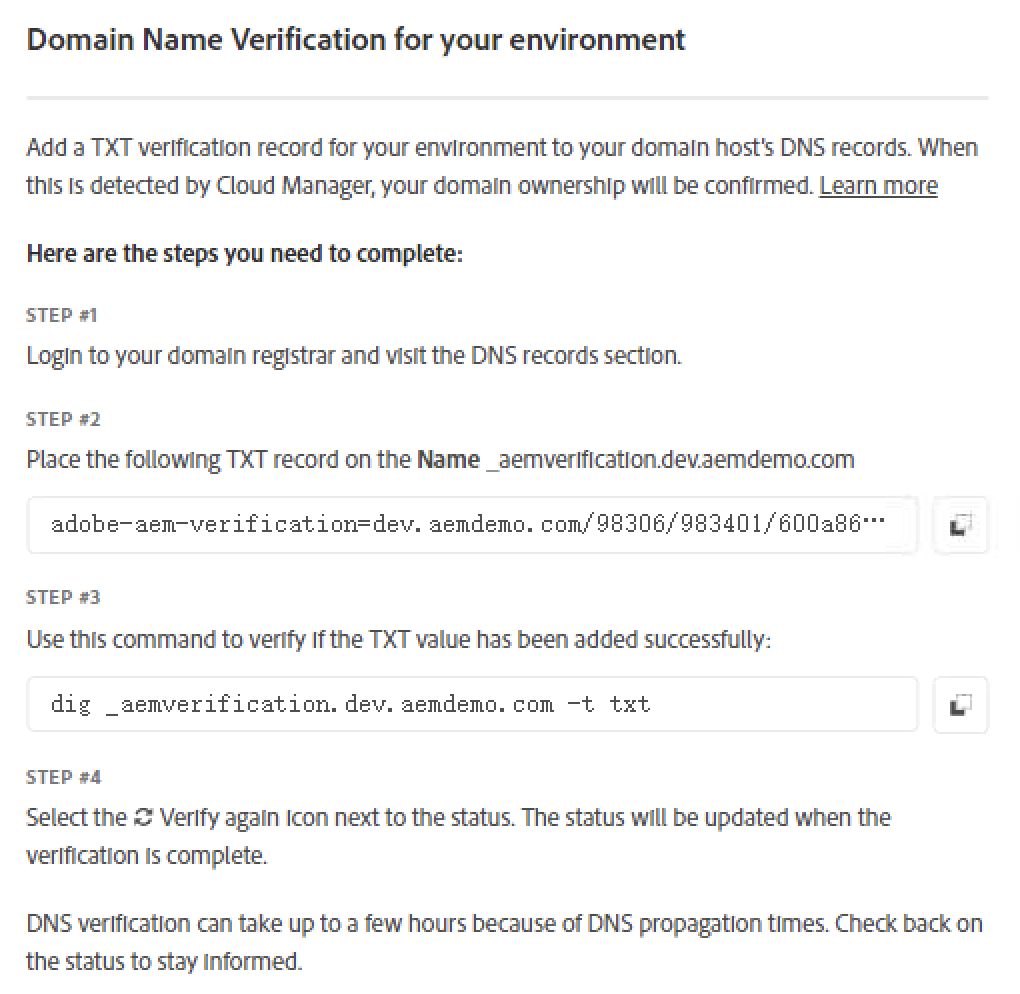
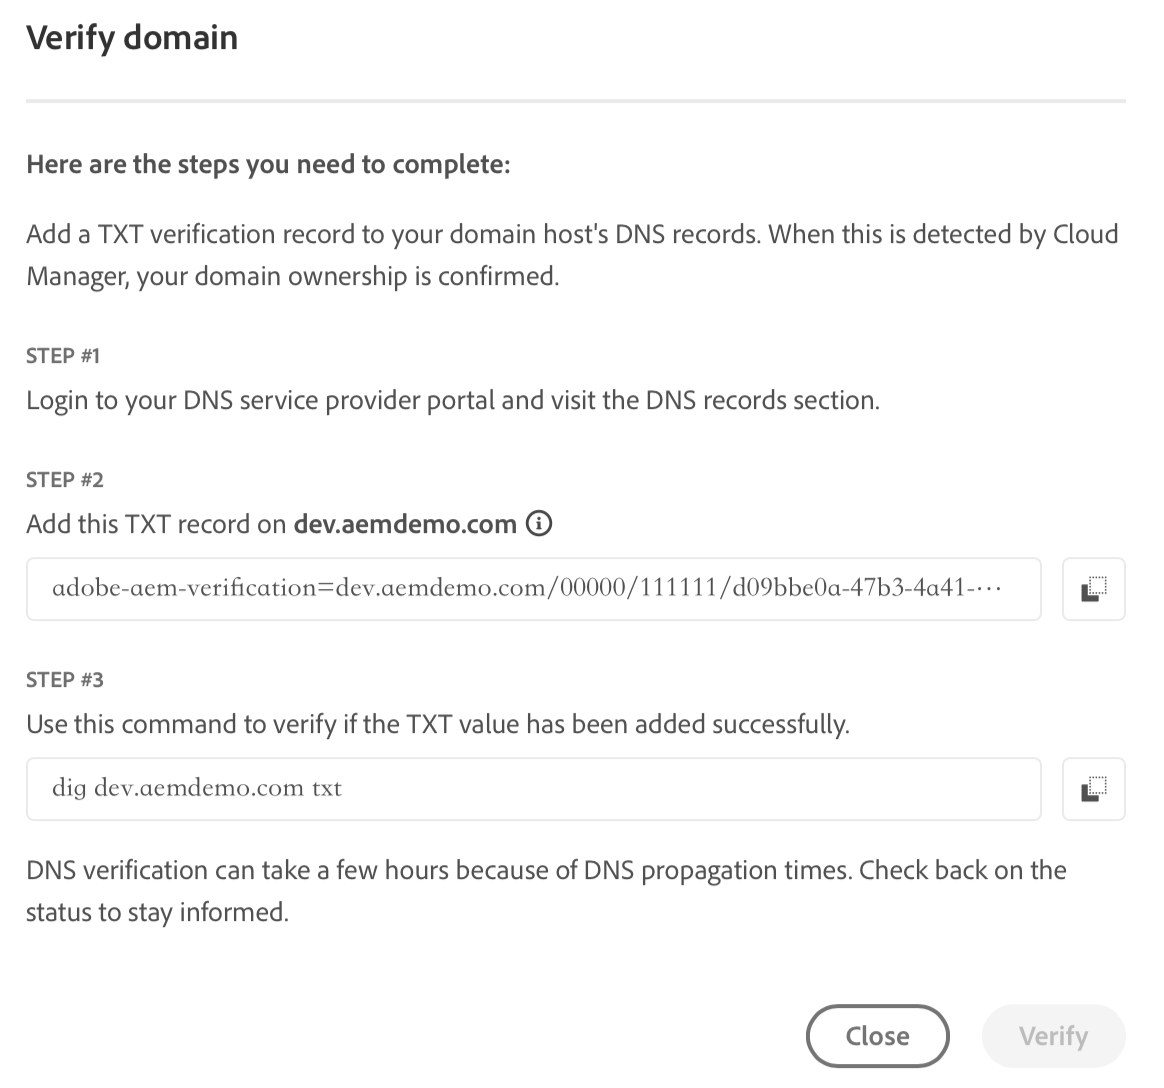
new custom domain setup with new setup

diff --git a/src/app/aem/sites/setting-up-custom-domain-aem-cloud/page.tsx b/src/app/aem/sites/setting-up-custom-domain-aem-cloud/page.tsx
@@ -6,10 +6,14 @@ import { IBreadCrumb } from "@/types/breadcrumb";
 import BreadCrumb from "@/components/breadcrumb/breadcrumb";
 import { SETTING_UP_CUSTOM_DOMAIN_AEM_CLOUD as ARTICLE } from "@/lib/data/article/aem/sites";
 
-import NEW_SSL_CERTIFICATE from './assets/new-ssl-certificate.png';
 import NEW_DOMAIN_NAME from './assets/new-domain-name.png';
+import DOMAIN_CERTIFICATION_SELECTION from './assets/domain-certification-selection.png';
 import DOMAIN_NAME_VERIFICATION from './assets/domain-name-verification.png';
-import DNS_RESOLUTION from './assets/dns-resolution.png';
+import DOMAIN_NAME_VERIFICATION_ADOBE from './assets/domain-name-verification-adobe.png';
+import NEW_SSL_CERTIFICATE from './assets/new-ssl-certificate.png';
+import NEW_SSL_CERTIFICATE_ADOBE from './assets/new-ssl-certificate-adobe.png';
+import CDN_CONFIGURATION from './assets/cdn-configuration.png';
+import CDN_CONFIGURATION_ADOBE from './assets/cdn-configuration-adobe.png';
 
 export const metadata: Metadata = {
   title: ARTICLE.title,
@@ -38,20 +42,131 @@ export default function DomainConfiguration() {
           modifiedDate={ARTICLE.modifiedDate}/>
         <section className="pt-6">
           It is good practice to have a Domain for your site that is memorable for customer and reflects your brand&apos;s identity.
-          Adding a custom domain name in AEMaaCS requires interaction between DNS service and Cloud Manager.
+          Adding a custom domain name in AEMaaCS requires interaction between DNS service and Cloud Manager. A user must be a member
+          of <strong>Business Owner</strong> or <strong>Deployment Manager</strong> role to complete this task.
         </section>
-        <Image src={NEW_SSL_CERTIFICATE} className="border mt-3" height="550"
-           alt="New SSL Certificate">
-        </Image>
-        <Image src={NEW_DOMAIN_NAME} className="border mt-3" height="500"
+        <section className="pt-3">
+          There are several steps required to install, configure, and verify custom domain names. Get started configuring a new domain name
+          in Cloud Manager.
+        </section>
+        <h2 className="text-xl mt-4">
+          <strong>Add Custom Domain</strong>
+        </h2>
+        <section>
+          From the left Navigation panel, Select <strong>Domain Settings</strong> then click <strong>Add Domain</strong>.
+          In the Add domain dialog box, enter the custom domain name you are using. Do not include http:// or https:// when entering in your domain.
+        </section>
+        <Image src={NEW_DOMAIN_NAME} className="border mt-3" height="200"
            alt="New Domain Name">
         </Image>
-        <Image src={DOMAIN_NAME_VERIFICATION} className="border mt-3" height="500"
+        <section className="py-3">
+          The next step is to verify the domain. In the Verify Domain dialog box, select <strong>What certificate type do you plan on using with this
+          domain?</strong> Adobe or Customer Managed Certificate.
+        </section>
+        <Image src={DOMAIN_CERTIFICATION_SELECTION} className="border mb-3" height="300"
            alt="Domain Name Verification">
         </Image>
-        <Image src={DNS_RESOLUTION} className="border mt-3" height="150"
-           alt="DNS Resolution">
-        </Image>
+        <section className="pb-3">
+          Based on your selection, add either a TXT record or CNAME to your DNS service.
+        </section>
+        <div className="md:flex">
+          <div className="md:w-1/2 w-full">
+            <figure>
+              <Image className="border py-3" src={DOMAIN_NAME_VERIFICATION_ADOBE}
+                 alt="Domain Name Verification for Adobe Managed Certificate">
+              </Image>
+              <figcaption className="text-center text-sm text-neutral-600">Adobe Managed Certificate</figcaption>
+            </figure>
+          </div>
+          <div className="md:w-1/2 w-full md:pt-0 pt-4 md:ml-4">
+            <figure>
+              <Image className=" border py-3" src={DOMAIN_NAME_VERIFICATION}
+                 alt="Domain Name Verification for Customer Managed Certificate">
+              </Image>
+              <figcaption className="text-center text-sm text-neutral-600">Customer Managed Certificate</figcaption>
+            </figure>
+          </div>
+        </div>
+        <h2 className="text-xl mt-4">
+          <strong>Add SSL Certificate</strong>
+        </h2>
+        <section className="pb-3">
+          From the left Navigation panel, Select <strong>SSL Certificates</strong> then click <strong>Add SSL certificate</strong>.
+          In the Add SSL certificate dialog box, based on your use case, do one of the following:
+        </section>
+        <div className="md:flex">
+          <div className="md:w-1/2 w-full">
+            <figure>
+              <Image className="border py-3" src={NEW_SSL_CERTIFICATE_ADOBE}
+                 alt="SSL Certificate for Adobe Managed Certificate">
+              </Image>
+            </figure>
+          </div>
+          <div className="md:w-1/2 w-full md:pt-0 pt-4 md:ml-4">
+            <figure>
+              <Image className=" border py-3" src={NEW_SSL_CERTIFICATE}
+                 alt="SSL Certificate for Customer Managed Certificate">
+              </Image>
+            </figure>
+          </div>
+        </div>
+        <section className="pt-3">
+          Once the certificate is successfully issued, green check mark will appear in the SSL Certificates table, indicating that the SSL certificate is now active and working.
+        </section>
+        <h2 className="text-xl mt-4">
+          <strong>Add CDN Configurations</strong>
+        </h2>
+        <section className="pb-3">
+          From the left Navigation panel, Select <strong>CDN Configurations</strong> then click <strong>Add</strong>.
+          In the Configuration CDN dialog box, based on your use case, do one of the following:
+        </section>
+        <div className="md:flex">
+          <div className="md:w-1/2 w-full">
+            <figure>
+              <Image className="border py-3" src={CDN_CONFIGURATION_ADOBE}
+                 alt="CDN Configuration for Adobe Managed Certificate">
+              </Image>
+            </figure>
+          </div>
+          <div className="md:w-1/2 w-full md:pt-0 pt-4 md:ml-4">
+            <figure>
+              <Image className=" border py-3" src={CDN_CONFIGURATION}
+                 alt="CDN Configuration for Customer Managed Certificate">
+              </Image>
+            </figure>
+          </div>
+        </div>
+        <section className="pt-3">
+          The final step is to point your domain to the target Adobe Cloud CDN in your DNS service. To verify,
+          use the command <code className="code-inline background">nslookup dev.aemdemo.com</code>.
+        </section>
+        <div className="relative overflow-x-auto mt-2">
+          <table className="w-full text-sm text-left">
+            <thead className="text-xs uppercase border">
+              <tr>
+                <th scope="col" className="min-w-36 px-4 py-2 border-r">
+                  CNAME
+                </th>
+                <th scope="col" className="px-4 py-2">
+                  Custom domain dame point to target
+                </th>
+              </tr>
+            </thead>
+            <tbody>
+            <tr className="border-b border-x">
+              <td scope="row" className="px-4 py-2 font-medium border-r whitespace-nowrap">
+                dev.aemdemo.com
+              </td>
+              <td className="px-4 py-2">
+                cdn.adobeaemcloud.com
+              </td>
+            </tr>
+            </tbody>
+          </table>
+        </div>
+        <section className="pt-3">
+          Congratulations! You have successfully configured your custom domain for use with Cloud Manager.
+        </section>
       </article>
     </div>
   );

diff --git a/src/app/aem/sites/environment-variables-and-secrets-in-aemaacs/page.tsx b/src/app/aem/sites/environment-variables-and-secrets-in-aemaacs/page.tsx
@@ -45,16 +45,16 @@ export default function EnvironmentVariable() {
           store sensitive information such as passwords and API keys.
         </section>
         <section className="pb-3">
-          To create Environment Variables in Cloud Manager, navigate to the Side Navigation bar, select Environments, and choose the desired environment. In the environment
-          details, go to the Configuration tab and click Add to open the Environment Configuration dialog.
+          To create Environment Variables in Cloud Manager, navigate to the left Navigation panel, select <strong>Environments</strong>, and choose the desired environment. In the environment
+          details, go to the <strong>Configuration</strong> tab and click Add to open the Environment Configuration dialog.
         </section>
         <Image src={AEM_CLOUD_MANAGER_ENVIRONMENT_VARIABLE} className="border"
            alt="Custom OSGI Configuration">
         </Image>
         <section className="pt-3">
-          While creating the variables, you can specify the service to which the variables apply, such as Author, Publish, Preview, or All, and choose their type, either Variable or Secret.
-          It&apos;s recommend to add multiple variables at once in the Environment Configuration dialog to update the environment in a single step. Otherwise, each save will trigger an environment update.
-          Note that when editing secrets, you can only update their values; viewing them is not possible.
+          While creating the variables, you can specify the service to which the variables apply, such as <strong>Author</strong>, <strong>Publish</strong>, <strong>Preview</strong>, or <strong>All</strong>, and
+          choose their type, either <strong>Variable</strong> or <strong>Secret</strong>. It&apos;s recommend to add multiple variables at once in the <strong>Environment Configuration</strong> dialog to update
+          the environment in a single step. Otherwise, each save will trigger an environment update. Note that when editing secrets, you can only update their values; viewing them is not possible.
         </section>
         <h2 className="text-xl mt-4">
           <strong>How to Use</strong>

diff --git a/src/lib/data/article/aem/sites.ts b/src/lib/data/article/aem/sites.ts
@@ -389,8 +389,8 @@ export const SLING_RESOURCE_MERGER : IArticleItem = {
 export const CONTENT_TRANSFER_TOOL : IArticleItem = {
   title: "Content Migration AMS to AEMaaCS",
   url: "/aem/sites/content-migration-ams-to-aemaacs",
-  publishDate: "October 28, 2024",
-  modifiedDate: "October 28, 2024",
+  publishDate: "September 25, 2024",
+  modifiedDate: "September 25, 2024",
   description: `Content Transfer Tool (CTT) is used to move existing content from source AEM (on-premise or AMS) instance to target AEM Cloud Service instance.`,
   topics: [ TOPICS.AEM_SITES ],
   active: false
@@ -423,9 +423,20 @@ export const SETTING_UP_CUSTOM_DOMAIN_AEM_CLOUD : IArticleItem = {
   publishDate: "September 18, 2024",
   modifiedDate: "September 18, 2024",
   description: `It is good practice to have a Domain for your site that is memorable for customer and reflects your brand's identity.
-    Adding a custom domain name in AEMaaCS requires interaction between DNS service and Cloud Manager.`,
+    Adding a custom domain name in AEMaaCS requires interaction between DNS service and Cloud Manager. A user must be a member of Business 
+    Owner or Deployment Manager role to complete this task.`,
   topics: [ TOPICS.AEM_SITES ],
   active: true
+}
+
+export const DEDICATED_IP_FOR_AEMAACS : IArticleItem = {
+  title: "Dedicated IP using Advanced Networking in AEMaaCS",
+  url: "/aem/sites/dedicated-ip-using-advanced-networking-in-aemaacs",
+  publishDate: "September 30, 2024",
+  modifiedDate: "September 30, 2024",
+  description: ``,
+  topics: [ TOPICS.AEM_SITES ],
+  active: false
 }
 
 export const AEM_SITES : IArticleItem[] = [
@@ -464,5 +475,6 @@ export const AEM_SITES : IArticleItem[] = [
   CONTENT_TRANSFER_TOOL,
   SLING_MAPPINGS_FOR_RESOURCE_RESOLUTION,
   CUSTOM_RUN_MODES_ON_AEMAACS,
-  SETTING_UP_CUSTOM_DOMAIN_AEM_CLOUD
+  SETTING_UP_CUSTOM_DOMAIN_AEM_CLOUD,
+  DEDICATED_IP_FOR_AEMAACS
 ].filter(m => m.active);

diff --git a/src/app/aem/sites/tailing-logs-on-aem-as-cloud-service/page.tsx b/src/app/aem/sites/tailing-logs-on-aem-as-cloud-service/page.tsx
@@ -56,8 +56,8 @@ export default function LogInvestigation() {
         </section>
         <Highlight code={CUSTOM_LOGGING} language="json" path="org.apache.sling.commons.log.LogManager.factory.config~aem-demo.cfg.json"/>
         <section className="pt-2">
-          Available log options in AEM Author and Publish services are <code className="code-inline">aemerror</code>, <code className="code-inline">aemaccess</code>, and <code className="code-inline">aemrequest</code> logs,
-          while AEM Dispatcher provides <code className="code-inline">httpdaccess</code>, <code className="code-inline">httperror</code>, and <code className="code-inline">aemdispatcher</code> log files. The recommended log
+          Available log options in AEM Author and Publish services are <code className="code-inline font-bold">aemerror</code>, <code className="code-inline font-bold">aemaccess</code>, and <code className="code-inline font-bold">aemrequest</code> logs,
+          while AEM Dispatcher provides <code className="code-inline font-bold">httpdaccess</code>, <code className="code-inline font-bold">httperror</code>, and <code className="code-inline font-bold">aemdispatcher</code> log files. The recommended log
           levels for custom loggers per environment type: DEBUG (Development), WARN (Stage), ERROR (Production).
         </section>
         <section className="pt-3">

diff --git a/src/app/aem/sites/dedicated-ip-using-advanced-networking-in-aemaacs/page.tsx b/src/app/aem/sites/dedicated-ip-using-advanced-networking-in-aemaacs/page.tsx
@@ -1,0 +1,41 @@
+import { Metadata } from "next";
+
+import Article from "@/components/article/article";
+import { IBreadCrumb } from "@/types/breadcrumb";
+import BreadCrumb from "@/components/breadcrumb/breadcrumb";
+import { DEDICATED_IP_FOR_AEMAACS as ARTICLE } from "@/lib/data/article/aem/sites";
+
+export const metadata: Metadata = {
+  title: ARTICLE.title,
+  description: ARTICLE.description,
+  alternates: {
+    canonical: ARTICLE.url
+  }
+};
+
+const breadcrumbs : IBreadCrumb = {
+  items: [{
+    title: "AEM Sites",
+    url: "/aem/sites"
+  }],
+  current: ARTICLE.title
+}
+
+export default function CustomRunModes() {
+  return (
+    <div>
+      <BreadCrumb {...breadcrumbs}/>
+      <article itemScope itemType="https://schema.org/Article">
+        <Article
+          title={ARTICLE.title}
+          publishDate={ARTICLE.publishDate}
+          modifiedDate={ARTICLE.modifiedDate}/>
+        <div>
+          <section className="pt-6">
+
+          </section>
+        </div>  
+      </article>
+    </div>
+  );
+}
